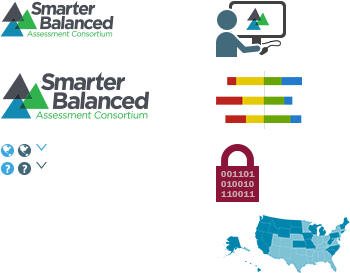
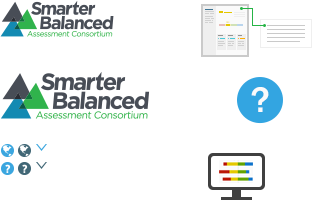
US26384 landing page changes
Former-commit-id: 7e13a27f179bcaa3250f557ba2d34ad75236b37e

diff --git a/assets/less/reports/login.less b/assets/less/reports/login.less
@@ -86,27 +86,28 @@ body.login {
 
     #content {
 	min-height: 490px;
-	background-color: #474c55;
+	background-color: #ecf2f5;
 	background-image: url('../images/homepage_bg.png');
 	background-repeat: no-repeat;
 	background-position: center;
 	border-top: solid 1px @color-B14;
 
 	.intro {
-	    position: relative;
-	    top: 40px;
-	    left: 70px;
-	    width: 320px;
-	    color: @color-white;
+	    font-family: "Helvetica Neue",Helvetica,Arial,sans-serif;
+      display: block;
+	    width: 350px;
+	    color: @color-black;
+	    margin: 50px 0px 0px 175px;
 
 	    h1 {
 		font-size: 40px;
-		font-weight: normal;
+		font-weight: bold;
+		margin-bottom: 20px;
 	    }
 
 	    p {
-		font-size: 16px;
-		padding: 20px 0px 30px 0px;
+		font-size: 14px;
+		line-height: 20px;
 	    }
 
 	    .btn-login {
@@ -115,7 +116,14 @@ body.login {
 		font-weight: bold;
 		font-size: 18px;
 		display: block;
-		margin: auto;
+		margin: 30px auto 0 auto;
+	    }
+	    
+	    .preTitle {
+	  font-size: 22px;
+    line-height: 22px;
+    margin-bottom: 5px;
+    font-weight: normal;
 	    }
 	}
     }
@@ -136,7 +144,7 @@ body.login {
 		display: inline-block;
 		vertical-align: middle;
 		height: 50px;
-		width: 244px;
+		width: 326px;
 		height: 174px;
 		border-right: solid 1px @color-B18;
 
@@ -190,17 +198,17 @@ body.login {
 	    }
 	}
 
-	.assessments {
+	.annotatedReports {
 	    background-image: url("../images/landing_page.png");
 	    background-position: -180px 0px;
 	}
 
-	.reports {
+	.reportingHelp {
 	    background-image: url("../images/landing_page.png");
 	    background-position: -195px -70px;
 	}
 
-	.security {
+	.faq {
 	    background-image: url("../images/landing_page.png");
 	    background-position: -172px -140px;
 	}

diff --git a/assets/js/templates/LandingPage.html b/assets/js/templates/LandingPage.html
@@ -28,6 +28,7 @@
 	<div id="content">
 	    <div class="content">
 	    <div class="intro">
+	    	<p class='preTitle'>{{welcome}}</p>
 	        <h1>{{title}}</h1>
 	        <p>{{summary}}</p>
 	        <button class="btn btn-primary btn-small btn-login edware-btn-primary">{{labels.login}}</button>
